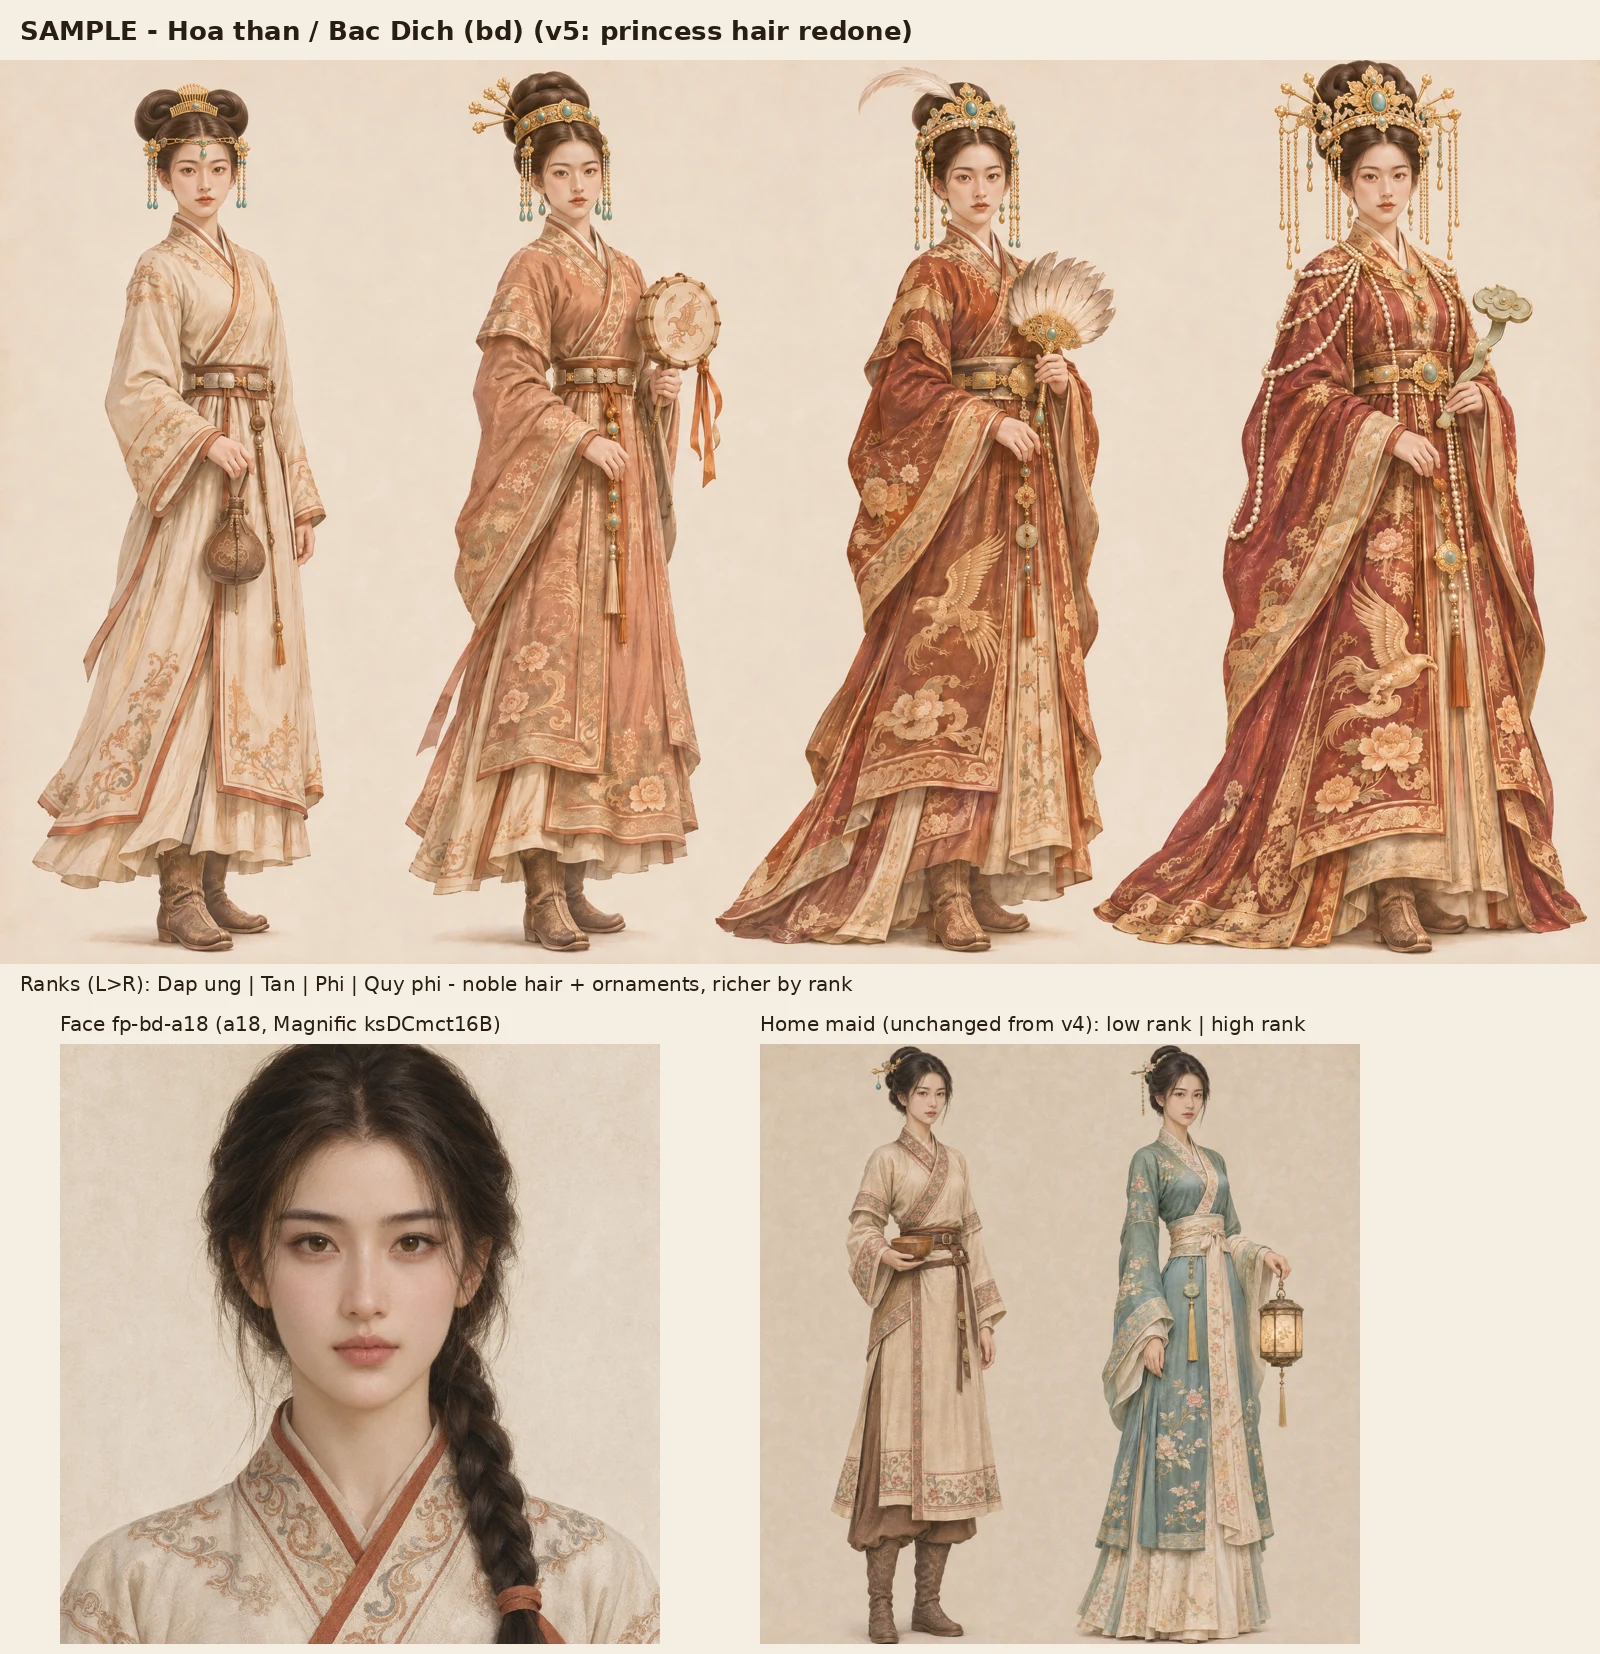
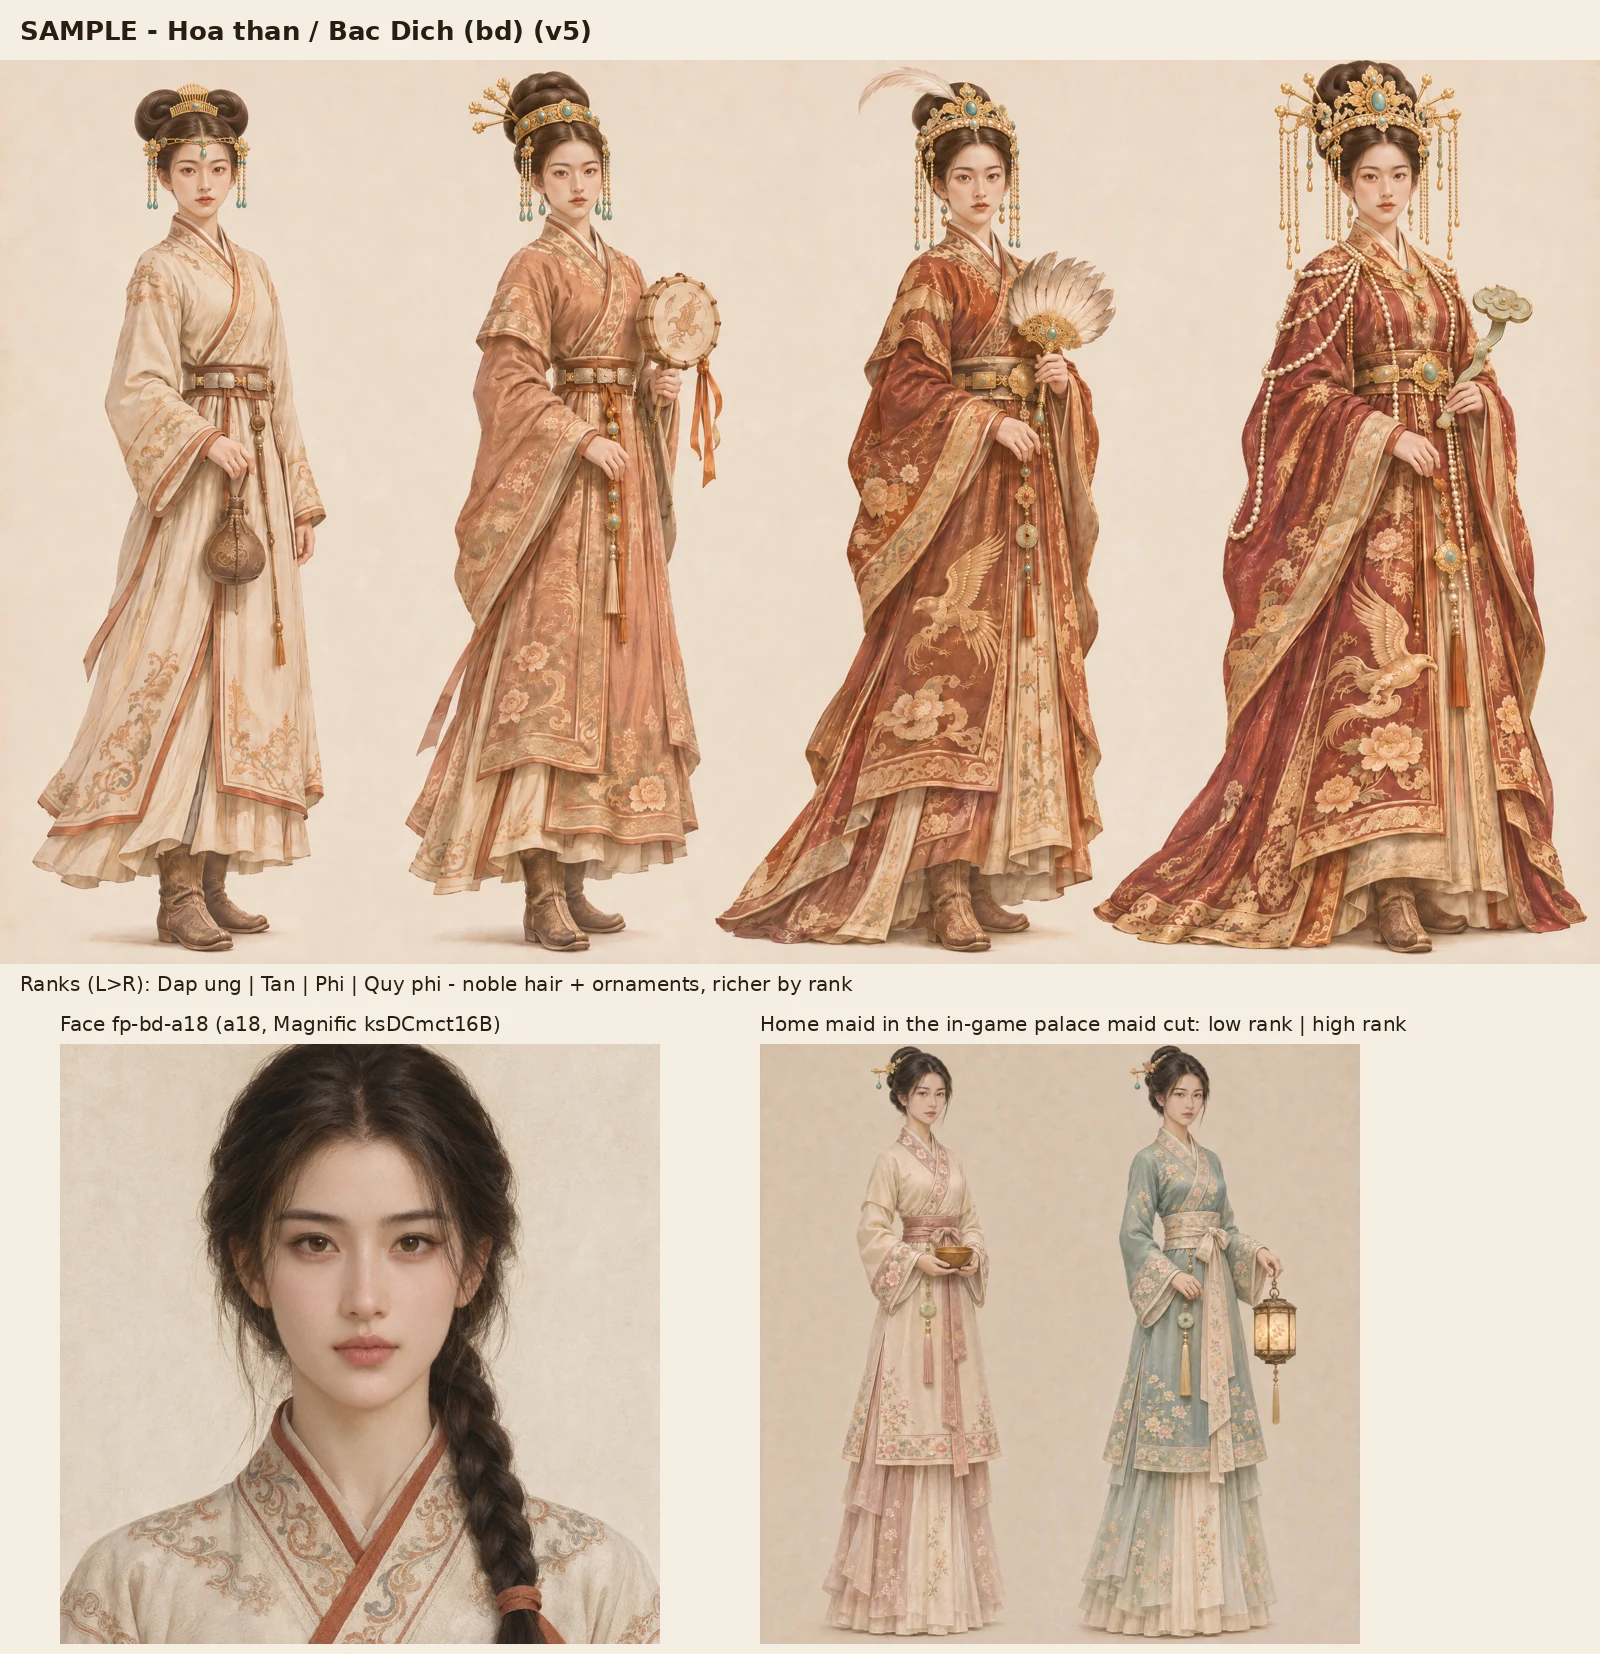
foreign-princess samples v5: maids redrawn in in-game maid cut (nc + bd)
Claude-Session: https://claude.ai/code/session_01UV1SzhLiXwuRzRVVTE8AJr

diff --git a/dev/handover/reports/foreign-princess-samples.md b/dev/handover/reports/foreign-princess-samples.md
@@ -58,3 +58,8 @@ Credits v4: 2 × 65 (Đáp ứng edits) + 2 × 65 (maids) = 260. Total all round
 File: `foreign-princess-samples/foreign-princess-sample-bd-v5.webp`. Nam Chiếu v4 OK (unchanged); maids unchanged (owner still checking the maid sleeve question).
 Hair redone on all four Bắc Địch ranks via gpt-2-6 image edit of the v4 lineup (creation w4hrhlo7EI → v5 JNaUVYzOq4), faces/costumes/poses/props/proportions checked unchanged. Reads as noble, not servant: Đáp ứng = polished high double-coil, gold comb, slim gold-and-turquoise forehead band with pendant, two gold/turquoise hairpins with short tassels; Tần = high tidy coiled bun, gold-and-turquoise crown band, gold hairpin spray, beaded strands at the temples; Phi = tall jewelled gold-and-turquoise headdress with feather over a high coil, long beaded strands; Quý phi = grand gold crown with turquoise and pearls, long strands, high formal bun. No braids, no fur.
 Credits: 65 (model gpt-2-6, folder ba4aecfe…). Total all rounds 1,540 + 65 = 1,605.
+
+## v5 maids (owner 12:00Z: sleeves too big, cut not like the in-game maids)
+Both maid pairs redrawn (low + high rank, nc + bd) in the in-game palace maid cut: style ref = row of existing figures fig-maid-m01/m02/m03/m05/m10/m20/m30-a18 (CDN). Crossed-collar robe to about knee length over a layered skirt, sash + jade pendant + tassel, moderate loose sleeves with a wide embroidered cuff band, pastel sage/teal/soft-blue/cream palette, tidy bun. National touch = small accessory only (nc: silver hairpin with tiny bells + silver earrings; bd: gold + turquoise bead hairpins), never in the cut; bd low maid no longer in a steppe wrap robe. Faces kept from v4 (new, distinct). Files now: `...-bd-v5.webp` (new hair + new maids) and `...-nc-v5.webp` (v4 princess lineup unchanged + new maids).
+Attempt 1 of the maids had tube-tight sleeves (nc xSdkWVwjfW, bd P3EJ8Cd42C) → discarded; final = nc bxTFWAa5Y2, bd TdSWsshVNR. Caveat: final sleeves are still a little slimmer/shorter than the very airy ones in the in-game row (e.g. m10/m30); say if she wants them wider.
+Credits: 4 maid generations x 65 = 260; plus the 65 bd hair edit = 325 for v5. Total all rounds 1,540 + 325 = 1,865. Model gpt-2-6 for all.
